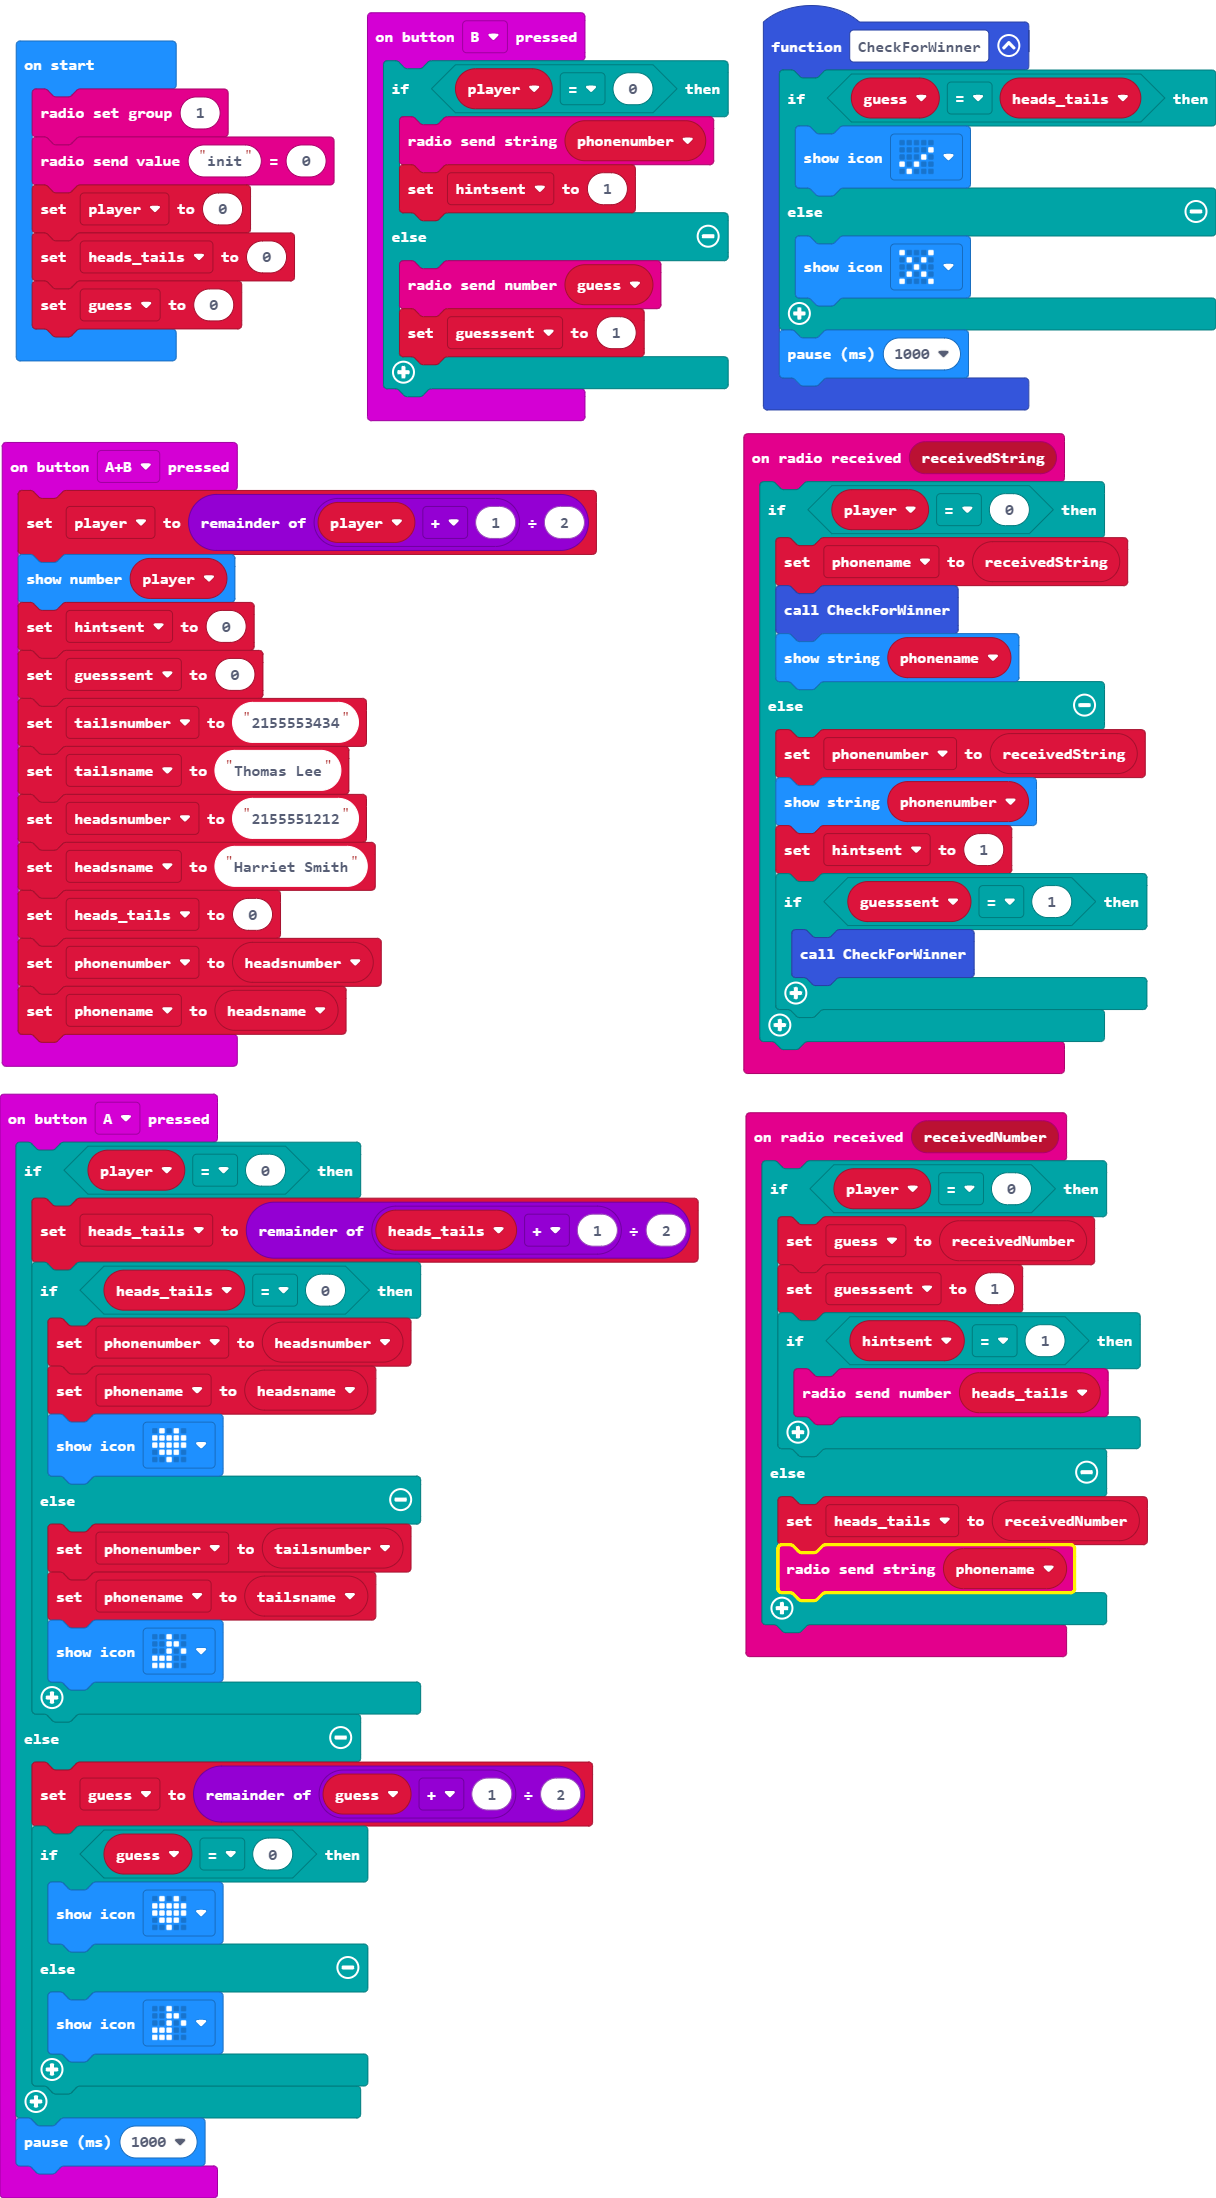
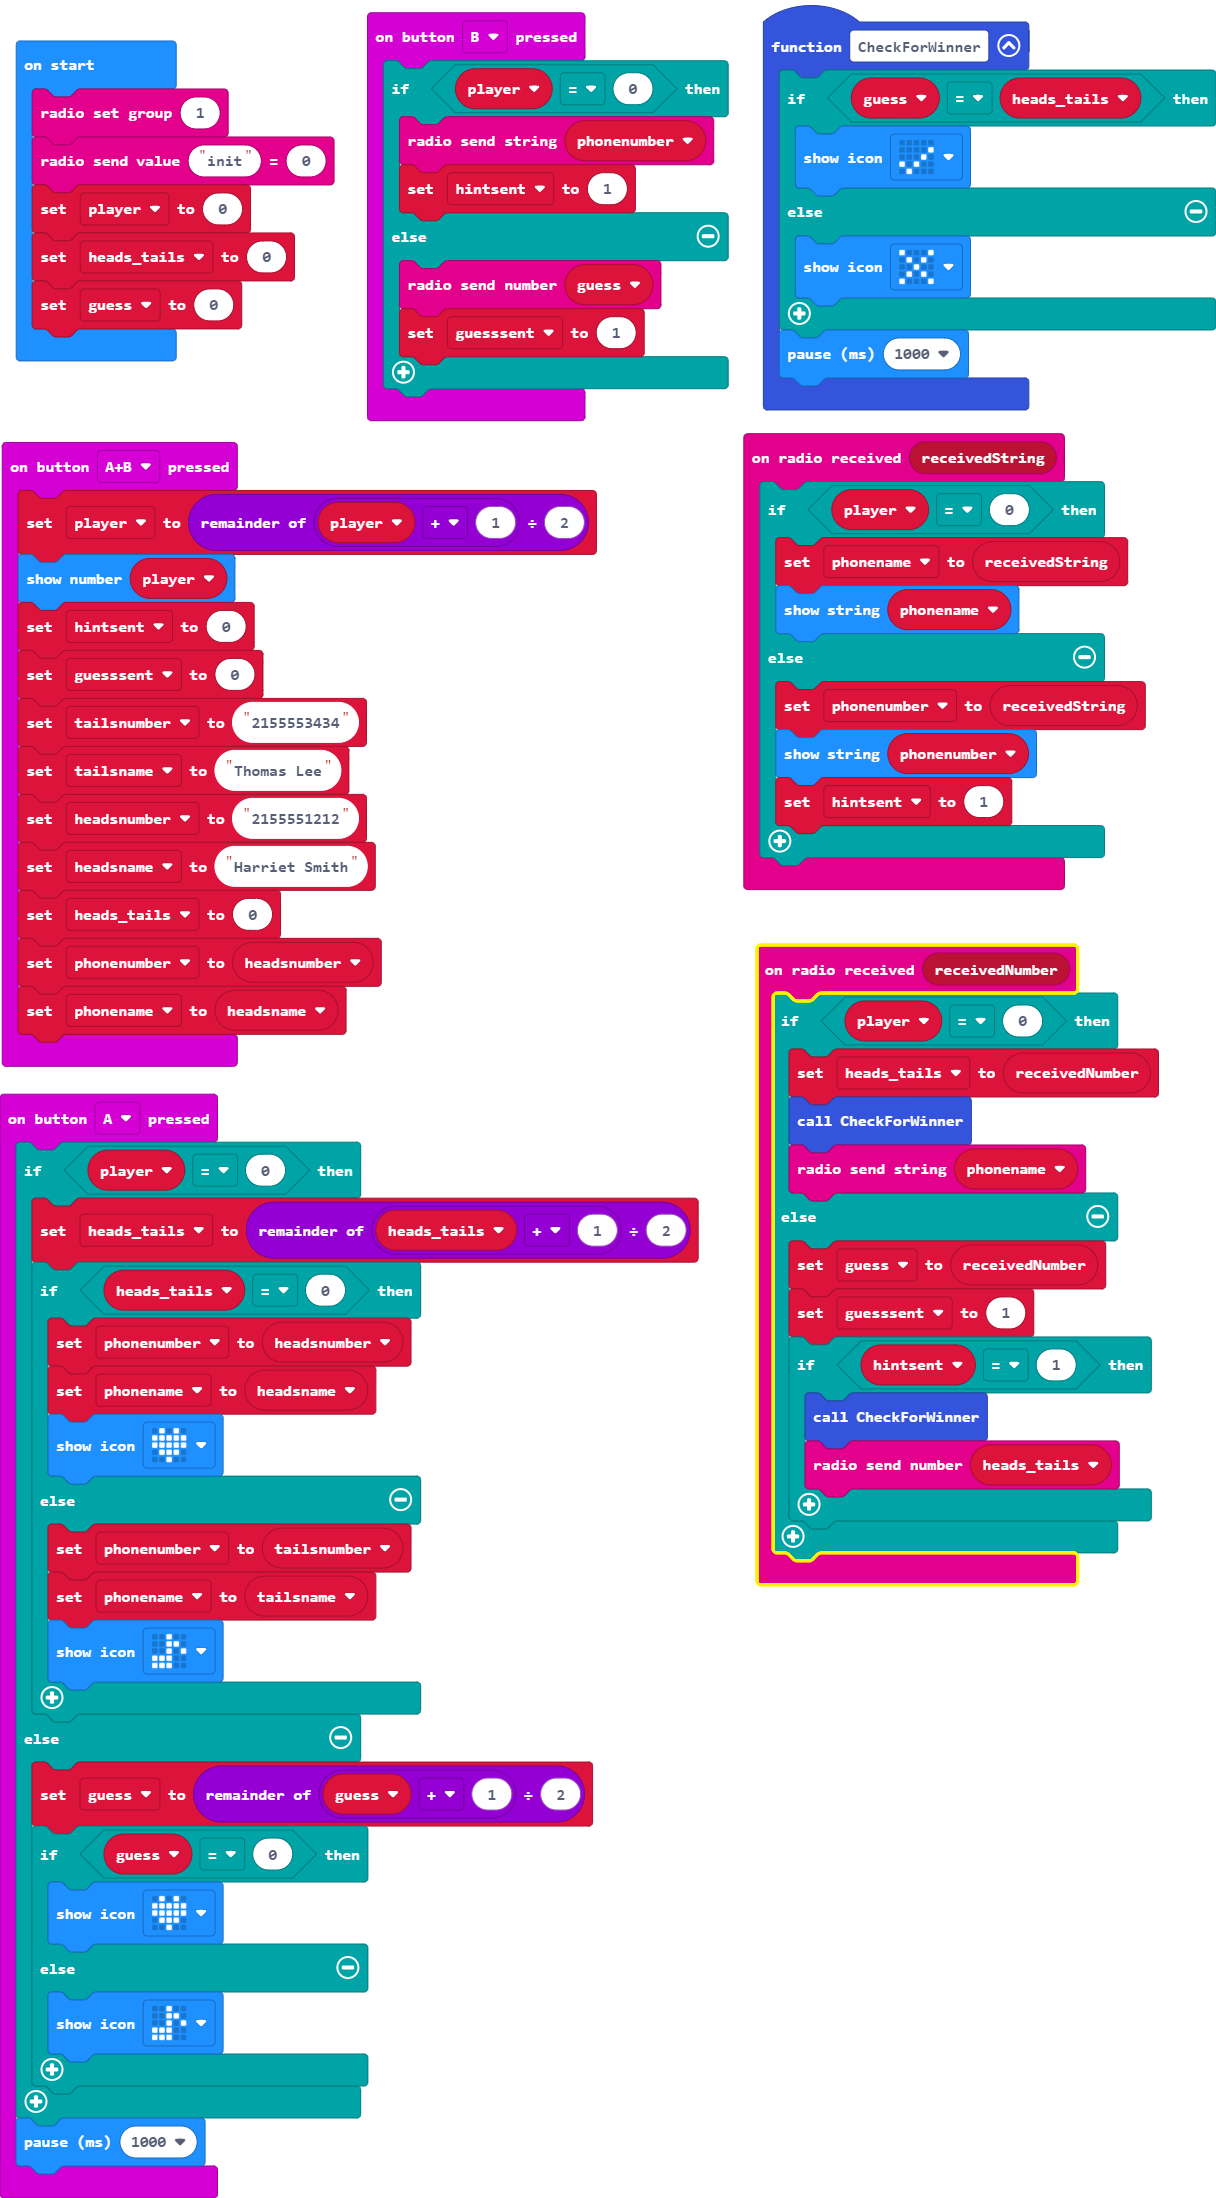
Checking for winner more consistently

Changed region(s): [[0.5938, 0.2475, 0.9688, 0.7734]]

diff --git a/main.ts b/main.ts
@@ -1,13 +1,15 @@
 radio.onReceivedNumber(function (receivedNumber) {
     if (player == 0) {
+        heads_tails = receivedNumber
+        CheckForWinner()
+        radio.sendString("" + (phonename))
+    } else {
         guess = receivedNumber
         guesssent = 1
         if (hintsent == 1) {
+            CheckForWinner()
             radio.sendNumber(heads_tails)
         }
-    } else {
-        heads_tails = receivedNumber
-        radio.sendString("" + (phonename))
     }
 })
 input.onButtonPressed(Button.A, function () {
@@ -56,15 +58,11 @@ input.onButtonPressed(Button.AB, function () {
 radio.onReceivedString(function (receivedString) {
     if (player == 0) {
         phonename = receivedString
-        CheckForWinner()
         basic.showString("" + (phonename))
     } else {
         phonenumber = receivedString
         basic.showString("" + (phonenumber))
         hintsent = 1
-        if (guesssent == 1) {
-            CheckForWinner()
-        }
     }
 })
 input.onButtonPressed(Button.B, function () {
@@ -81,9 +79,9 @@ let tailsnumber = ""
 let headsname = ""
 let headsnumber = ""
 let phonenumber = ""
-let phonename = ""
 let hintsent = 0
 let guesssent = 0
+let phonename = ""
 let guess = 0
 let heads_tails = 0
 let player = 0
